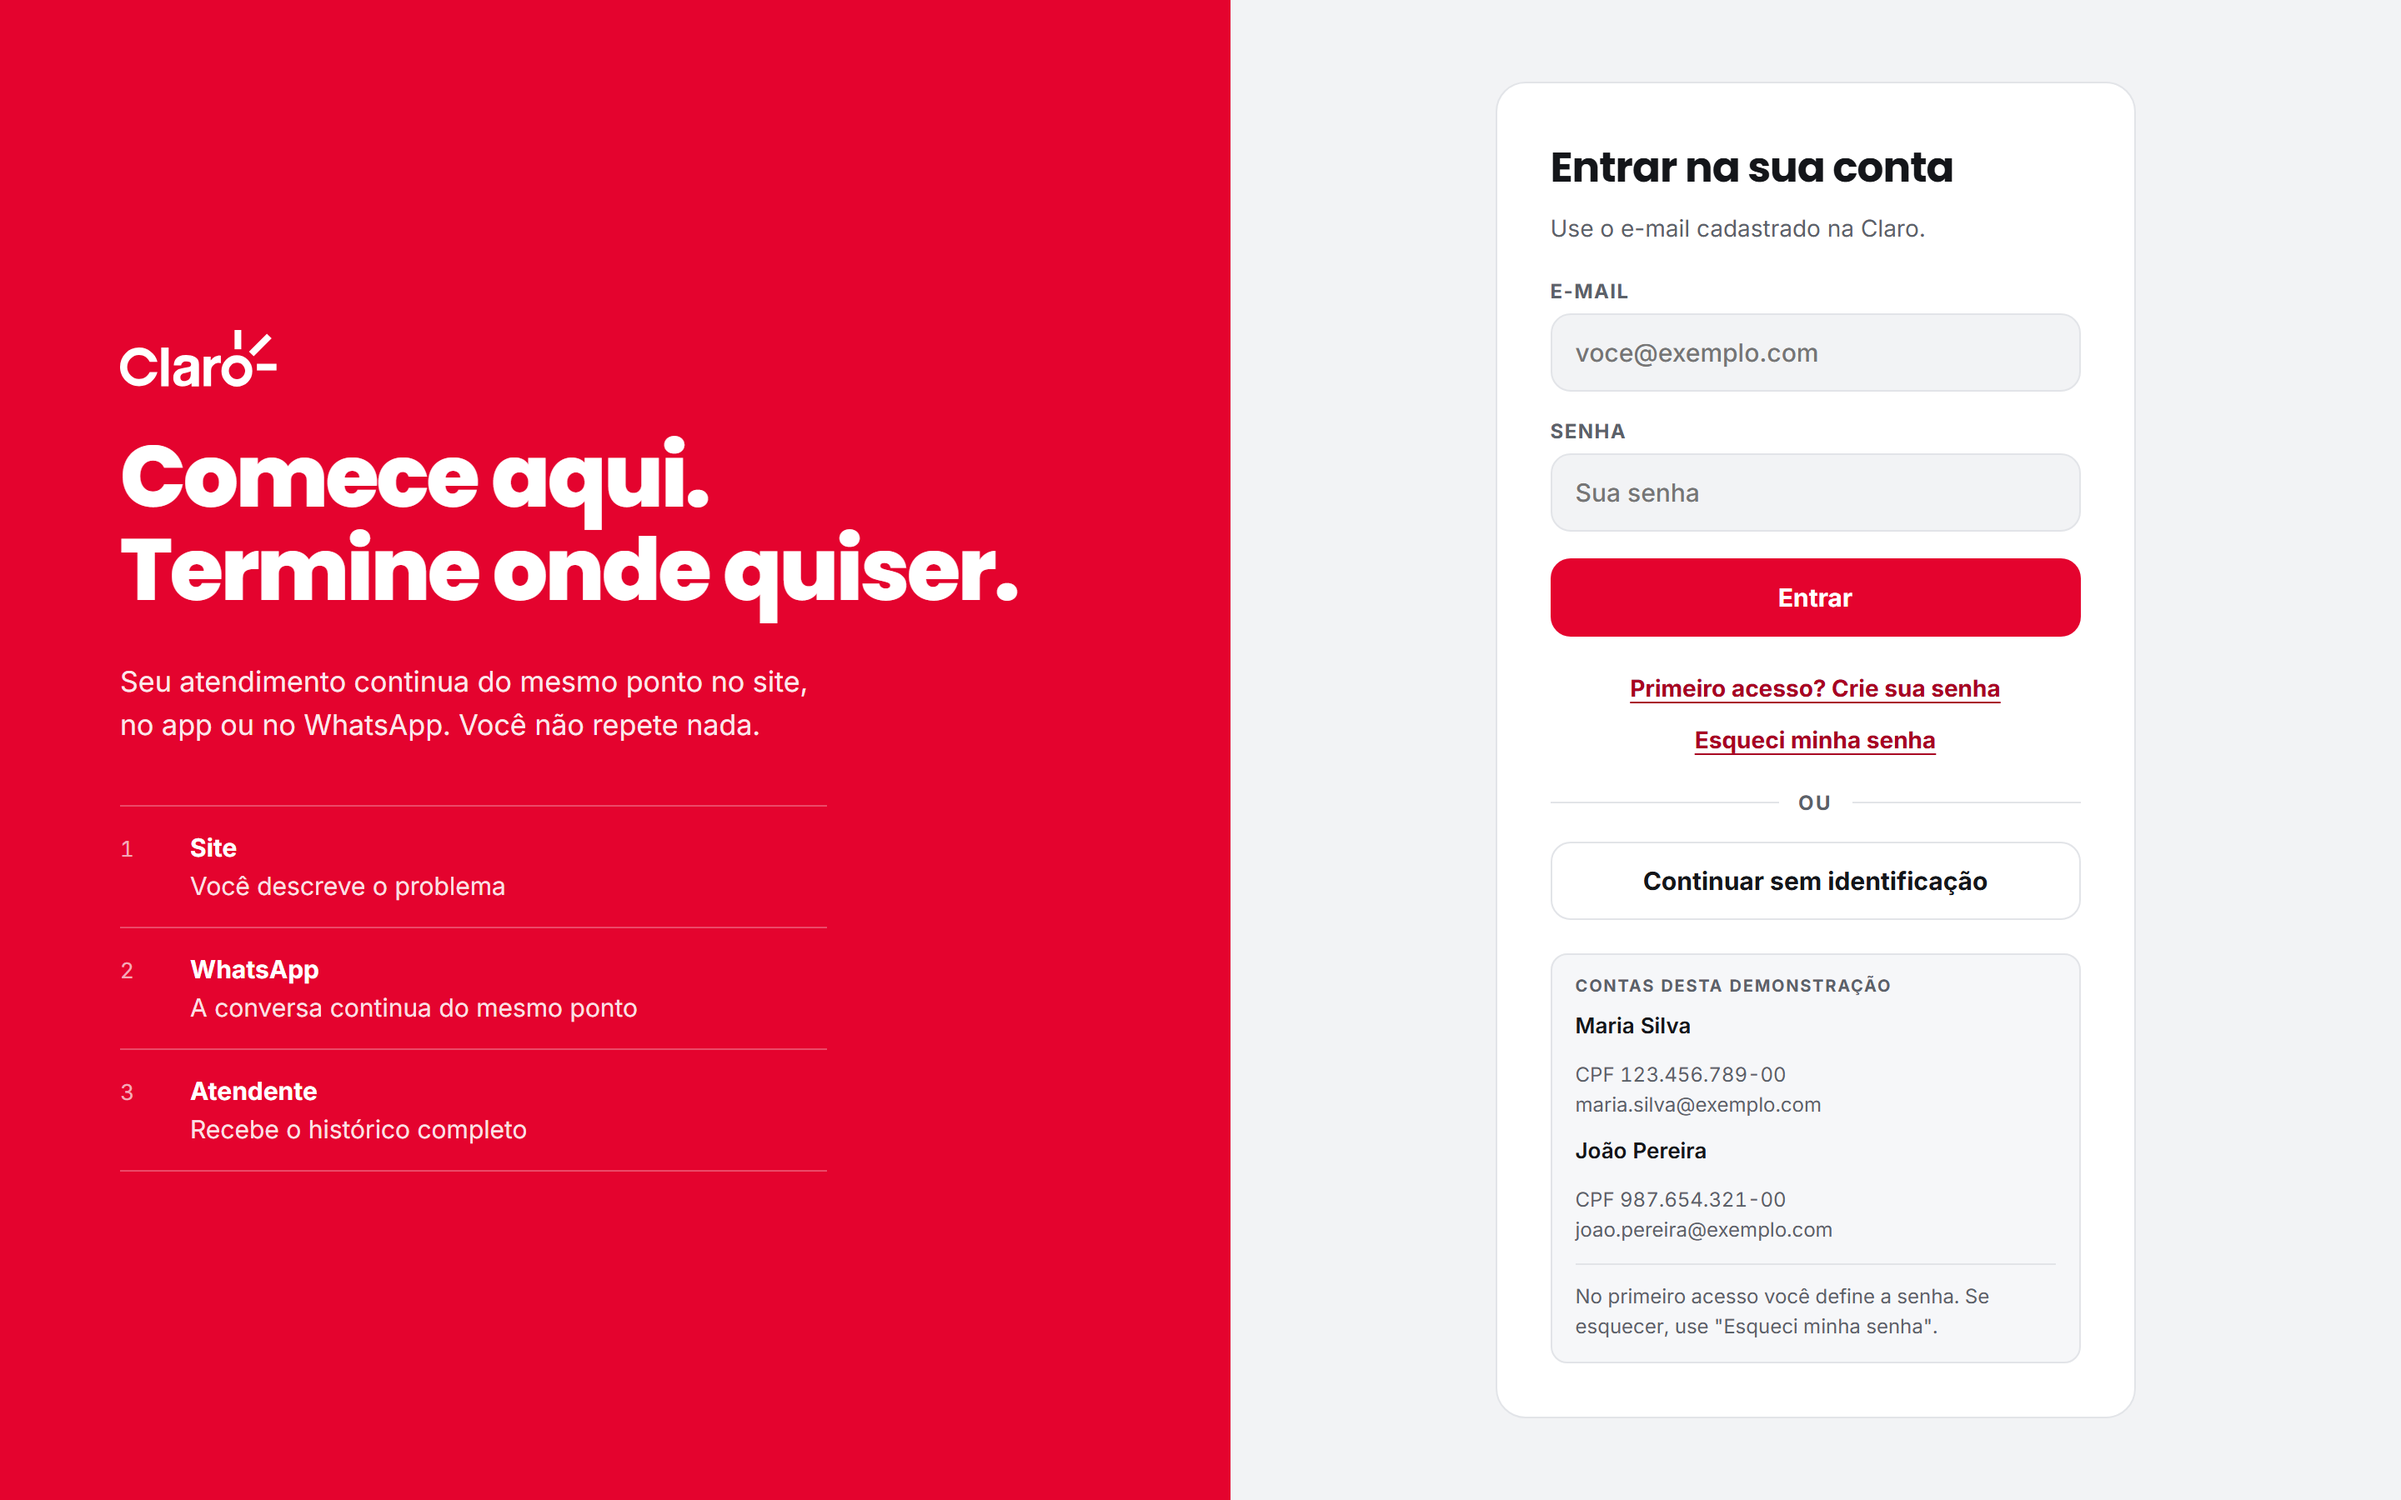
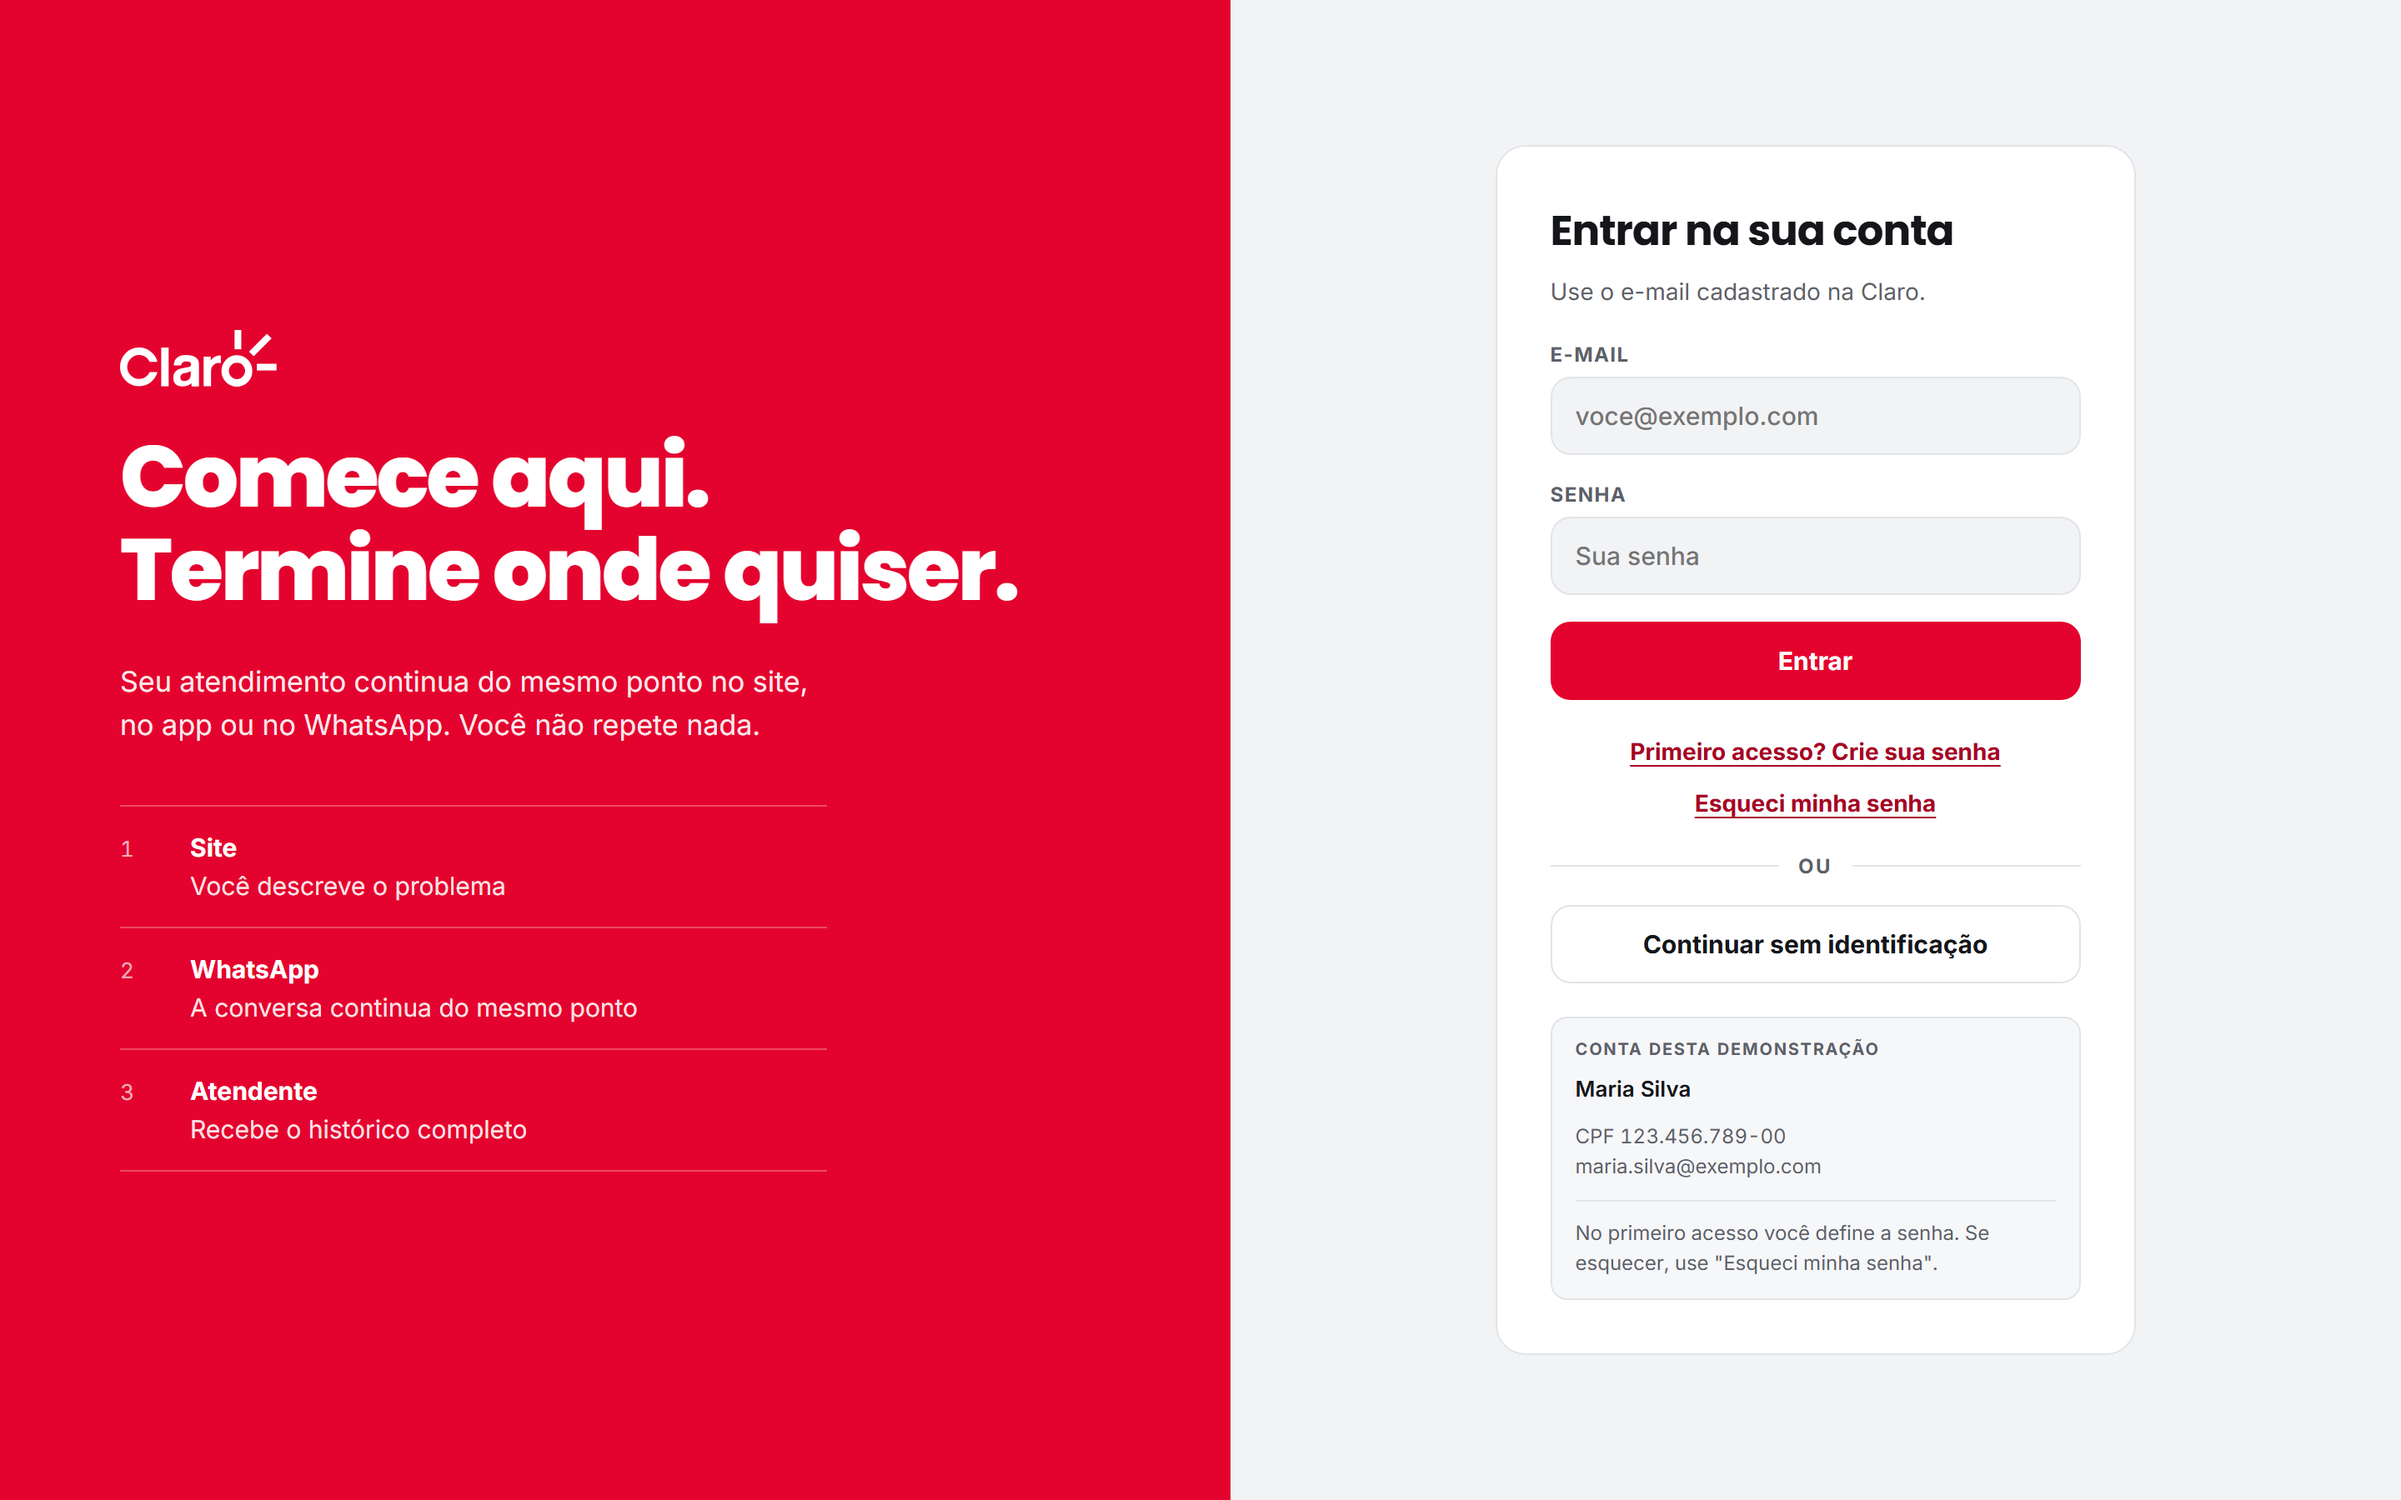
feat: admin commands for the first accounts, and a separate database for tests
npm run db:customer creates a customer with one plan and one open invoice,
mirroring db:agent. A customer with no service gives the assistant nothing
to answer, so the plan comes with it. The account is created without a
password on purpose: that is what first access is for, and creating one
with a password would block the very path the screen advertises.

The customer site shows the demo account again, since there is no open
registration and without that line whoever opens the screen tries their
own CPF and gets 'we could not find an account', which is correct and
reads as a defect.

And a trap I set myself in the previous commit: the suite clears every
table, so running npm test wiped the accounts and any conversation in
progress, silently. Tests now run against their own database via
TEST_DATABASE_URL, created once with npm run db:test. Verified: the
accounts survive a full suite run.

Changed region(s): [[0.625, 0.0933, 0.875, 0.9022]]

diff --git a/vitest.global-setup.ts b/vitest.global-setup.ts
@@ -1,28 +1,45 @@
-import { prisma } from '@sync/db'
+import { existsSync } from 'node:fs'
+import { join } from 'node:path'
 
 /**
- * Deixa o banco vazio antes e depois da suíte.
+ * Deixa o banco de teste vazio antes e depois da suíte.
  *
- * Cada arquivo já limpa o que vai usar, mas o último teste de cada arquivo
- * deixava as próprias linhas para trás: no fim de uma execução sobravam
- * conversas órfãs no banco de desenvolvimento. Como não há mais seed, o estado
- * esperado fora dos testes é base vazia, e é isso que este gancho garante.
+ * Aponta para o mesmo banco separado que o vitest.setup.ts usa, e por isso o
+ * import do Prisma é dinâmico: precisa acontecer depois da troca da URL, e um
+ * import estático subiria antes.
  */
-async function limpar(): Promise<void> {
-  await prisma.offerInsight.deleteMany()
-  await prisma.message.deleteMany()
-  await prisma.handoffToken.deleteMany()
-  await prisma.conversation.deleteMany()
-  await prisma.invoice.deleteMany()
-  await prisma.service.deleteMany()
-  await prisma.passwordResetToken.deleteMany()
-  await prisma.refreshToken.deleteMany()
-  await prisma.intentCache.deleteMany()
-  await prisma.customer.deleteMany()
-  await prisma.agent.deleteMany()
+function raizDoRepo(): string {
+  let dir = process.cwd()
+  for (let nivel = 0; nivel < 6; nivel++) {
+    if (existsSync(join(dir, 'vitest.config.ts'))) return dir
+    dir = join(dir, '..')
+  }
+  return process.cwd()
 }
 
+const env = join(raizDoRepo(), '.env')
+if (existsSync(env)) process.loadEnvFile(env)
+
+process.env.DATABASE_URL =
+  process.env.TEST_DATABASE_URL ?? 'mysql://root:sync@localhost:3307/sync_test'
+
 export async function setup(): Promise<() => Promise<void>> {
+  const { prisma } = await import('@sync/db')
+
+  async function limpar(): Promise<void> {
+    await prisma.offerInsight.deleteMany()
+    await prisma.message.deleteMany()
+    await prisma.handoffToken.deleteMany()
+    await prisma.conversation.deleteMany()
+    await prisma.invoice.deleteMany()
+    await prisma.service.deleteMany()
+    await prisma.passwordResetToken.deleteMany()
+    await prisma.refreshToken.deleteMany()
+    await prisma.intentCache.deleteMany()
+    await prisma.customer.deleteMany()
+    await prisma.agent.deleteMany()
+  }
+
   await limpar()
 
   return async () => {

diff --git a/apps/web-site/src/screens/AuthScreen.tsx b/apps/web-site/src/screens/AuthScreen.tsx
@@ -264,6 +264,27 @@ export function AuthScreen({ onAuthenticated, onSkip }: AuthScreenProps) {
           <button className="btn btn--ghost" type="button" onClick={onSkip}>
             Continuar sem identificação
           </button>
+
+          {/* Nao existe cadastro aberto: a base de clientes pertence a Claro, e
+              uma conta criada do zero nao teria plano nem fatura sobre o que
+              conversar. Sem esta indicacao, quem abre a tela tenta o proprio CPF
+              e leva "nao encontramos um cadastro", que esta correto e parece
+              defeito. */}
+          <div className="auth__demo">
+            <strong className="auth__demo-title">Conta desta demonstração</strong>
+
+            <dl className="auth__demo-list">
+              <dt>Maria Silva</dt>
+              <dd>
+                CPF 123.456.789-00
+                <span>maria.silva@exemplo.com</span>
+              </dd>
+            </dl>
+
+            <p className="auth__demo-note">
+              No primeiro acesso você define a senha. Se esquecer, use "Esqueci minha senha".
+            </p>
+          </div>
         </form>
       </section>
     </div>

diff --git a/vitest.setup.ts b/vitest.setup.ts
@@ -1,0 +1,29 @@
+import { existsSync } from 'node:fs'
+import { join } from 'node:path'
+
+/**
+ * Aponta os testes para um banco separado.
+ *
+ * Antes a suíte usava o mesmo MySQL do desenvolvimento e limpava as tabelas
+ * entre os testes. Isso significa que rodar `npm test` apagava as contas de
+ * demonstração e qualquer conversa em andamento: você voltava para a tela e o
+ * console estava vazio, sem nenhum aviso.
+ *
+ * Roda antes de cada arquivo de teste, e antes dos imports dele, então o cliente
+ * Prisma nasce já apontado para o banco certo. O `.env` é carregado aqui porque
+ * o container precisa do segredo dos tokens; só a URL do banco é trocada.
+ */
+function raizDoRepo(): string {
+  let dir = process.cwd()
+  for (let nivel = 0; nivel < 6; nivel++) {
+    if (existsSync(join(dir, 'package.json')) && existsSync(join(dir, 'vitest.config.ts'))) return dir
+    dir = join(dir, '..')
+  }
+  return process.cwd()
+}
+
+const env = join(raizDoRepo(), '.env')
+if (existsSync(env)) process.loadEnvFile(env)
+
+process.env.DATABASE_URL =
+  process.env.TEST_DATABASE_URL ?? 'mysql://root:sync@localhost:3307/sync_test'

diff --git a/vitest.config.ts b/vitest.config.ts
@@ -9,8 +9,9 @@ export default defineConfig({
     // Os testes de integração compartilham um único MySQL e limpam tabelas entre
     // si. Rodar arquivos em paralelo faria um teste apagar o estado do outro.
     fileParallelism: false,
-    // Base vazia antes e depois da suite. Sem seed, esse e o estado esperado do
-    // banco de desenvolvimento quando ninguem esta rodando teste.
+    // Banco separado do de desenvolvimento: sem isso, rodar a suite apagava as
+    // contas e as conversas da demonstracao, e nada avisava.
+    setupFiles: ['./vitest.setup.ts'],
     globalSetup: ['./vitest.global-setup.ts'],
   },
 })

diff --git a/README.md b/README.md
@@ -60,20 +60,26 @@ npm run dev:zap      # WhatsApp mock   http://localhost:5175
 ```
 
 **The database starts empty.** There is no seed: no fake customers, no fake
-team. Create the first account for the console with
+team. Create accounts explicitly:
 
 ```bash
+npm run db:test          # once, creates the separate database the suite uses
 npm run db:agent -- "Nome Sobrenome" email@claro.com.br senha [MANAGER]
+npm run db:customer -- "Nome Sobrenome" 12345678900 email@exemplo.com +5511987654321
 ```
 
-There is no sign-up for agents in the product, and there should not be: who
-gets into the console is decided by Claro, not by whoever opens the page. This
-command is the admin tool that stands in for that, until it is wired to a real
-identity directory.
+`db:customer` creates the customer with one plan and one open invoice, because a
+customer with no service gives the assistant nothing to answer. The account is
+created without a password on purpose: that is what first access is for.
 
-Customers are the other way around: the customer base belongs to Claro, so the
-product has first access rather than registration. Until that base is imported,
-insert a customer row yourself and use first access with its CPF and e-mail.
+There is no sign-up for agents in the product, and there should not be: who
+gets into the console is decided by Claro, not by whoever opens the page. These
+commands are the admin tools that stand in for that, until they are wired to a
+real identity directory and to Claro's customer base.
+
+The suite runs against its own database, set by `TEST_DATABASE_URL`. It clears
+every table between tests, so pointing it at the development database would
+erase these accounts on every `npm test`.
 
 ## Checks
 
